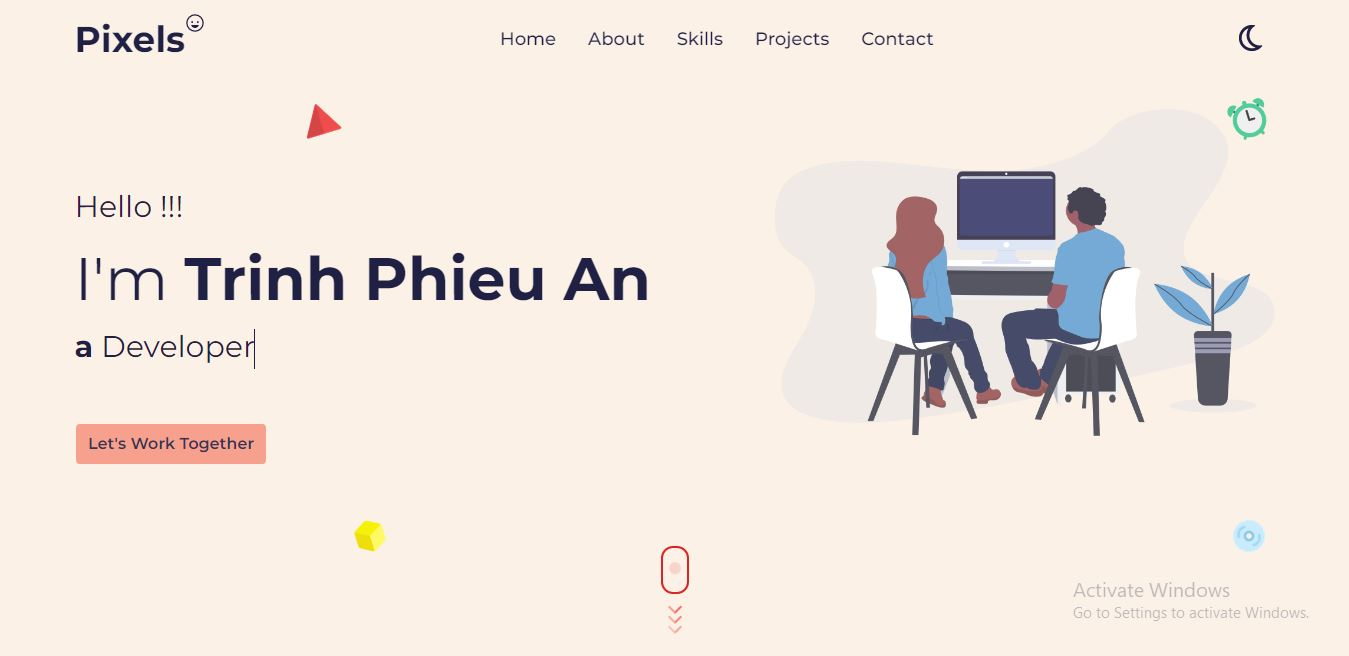
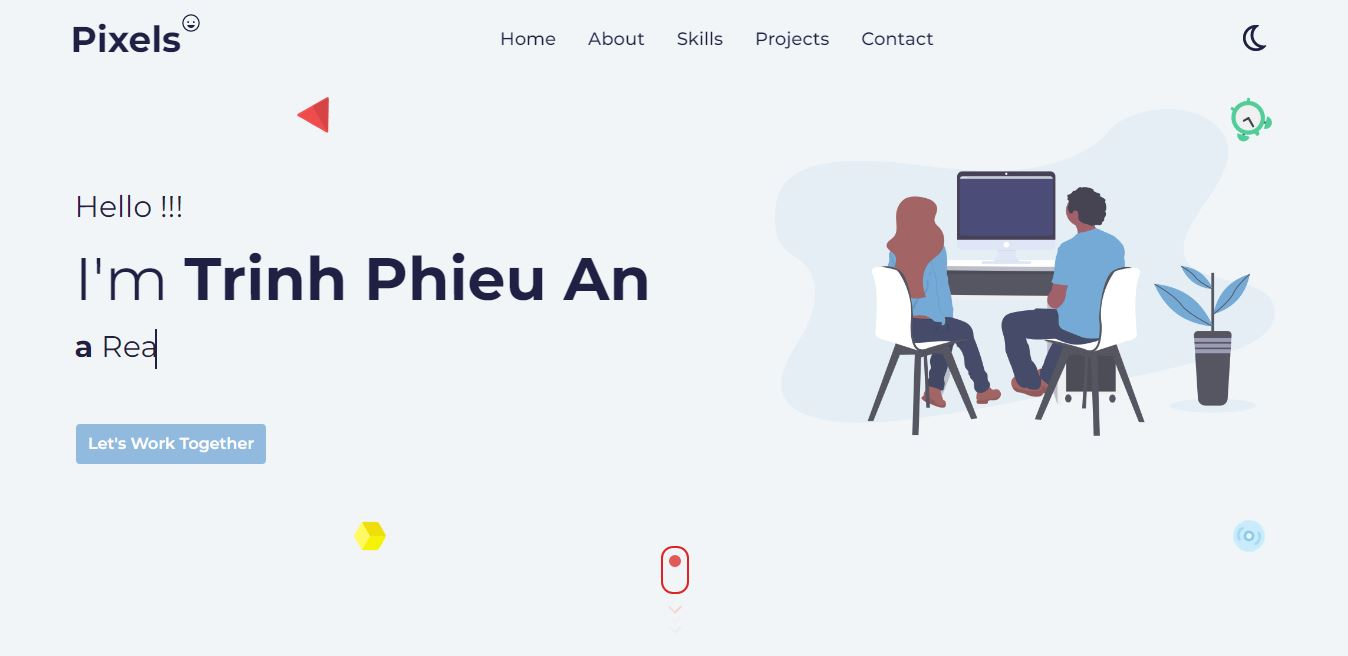
Fix UI Header, Skills, bg color

diff --git a/src/components/Skills.js b/src/components/Skills.js
@@ -2,7 +2,7 @@ import { htmlIcon, cssIcon, jsIcon, reactIcon, gitIcon, tailwindIcon } from '~/a
 
 function Skills() {
     return (
-        <div id="skills" className="px-[36px] py-[72px] xl:p-[72px] bg-[#fcf1e7]">
+        <div id="skills" className="px-[36px] py-[72px] xl:p-[72px] bg-[#f1f5f8]">
             <div className="font-bold text-3xl">
                 <h1 className="inline relative">
                     My Skills
@@ -10,47 +10,47 @@ function Skills() {
                 </h1>
             </div>
             <div className="flex flex-wrap justify-center gap-x-[30px] gap-y-[50px] xl:justify-between xl:gap-x-[80px] py-[24px] mt-[48px] select-none">
-                <div
-                    className="flex flex-col items-center justify-center border border-[#cccccc] 
-                            p-2 text-center rounded-lg hover:bg-[#fff] hover:shadow-custom w-[120px] h-[140px]"
-                >
-                    <img className="w-[90px]" src={htmlIcon} alt="" />
-                    <h1 className="font-semibold mt-2">HTML</h1>
+                <div class="relative w-[300px] h-[200px] shadow-custom rounded-lg border-b-[3px] border-[#ff5722] bg-[#fff]">
+                    <img className="absolute top-[-30px] left-[50%] translate-x-[-50%]" src={htmlIcon} alt="" />
+                    <div class="text-center pt-[60px]">
+                        <h1 className="text-xl font-semibold mb-3">HTML</h1>
+                        <p>HyperText Markup Language</p>
+                    </div>
                 </div>
-                <div
-                    className="flex flex-col items-center justify-center border border-[#cccccc] 
-                            p-2 text-center rounded-lg hover:bg-[#fff] hover:shadow-custom w-[120px] h-[140px]"
-                >
-                    <img className="w-[90px]" src={cssIcon} alt="" />
-                    <h1 className="font-semibold mt-2">CSS</h1>
+                <div class="relative w-[300px] h-[200px] shadow-custom rounded-lg border-b-[3px] border-[#1572b6] bg-[#fff]">
+                    <img className="absolute top-[-30px] left-[50%] translate-x-[-50%]" src={cssIcon} alt="" />
+                    <div class="text-center pt-[60px]">
+                        <h1 className="text-xl font-semibold mb-3">CSS</h1>
+                        <p>HyperText Markup Language</p>
+                    </div>
                 </div>
-                <div
-                    className="flex flex-col items-center justify-center border border-[#cccccc] 
-                            p-2 text-center rounded-lg hover:bg-[#fff] hover:shadow-custom w-[120px] h-[140px]"
-                >
-                    <img className="w-[90px]" src={jsIcon} alt="" />
-                    <h1 className="font-semibold mt-2">JavaScript</h1>
+                <div class="relative w-[300px] h-[200px] shadow-custom rounded-lg border-b-[3px] border-[#ffdf00] bg-[#fff]">
+                    <img className="absolute top-[-30px] left-[50%] translate-x-[-50%]" src={jsIcon} alt="" />
+                    <div class="text-center pt-[60px]">
+                        <h1 className="text-xl font-semibold mb-3">JavaScript</h1>
+                        <p>HyperText Markup Language</p>
+                    </div>
                 </div>
-                <div
-                    className="flex flex-col items-center justify-center border border-[#cccccc] 
-                            p-2 text-center rounded-lg hover:bg-[#fff] hover:shadow-custom w-[120px] h-[140px]"
-                >
-                    <img className="w-[90px]" src={reactIcon} alt="" />
-                    <h1 className="font-semibold mt-2">React</h1>
+                <div class="relative w-[300px] h-[200px] shadow-custom rounded-lg border-b-[3px] border-[#61d9fb] bg-[#fff]">
+                    <img className="absolute top-[-30px] left-[50%] translate-x-[-50%]" src={reactIcon} alt="" />
+                    <div class="text-center pt-[60px]">
+                        <h1 className="text-xl font-semibold mb-3">React</h1>
+                        <p>HyperText Markup Language</p>
+                    </div>
                 </div>
-                <div
-                    className="flex flex-col items-center justify-center border border-[#cccccc] 
-                            p-2 text-center rounded-lg hover:bg-[#fff] hover:shadow-custom w-[120px] h-[140px]"
-                >
-                    <img className="w-[90px]" src={tailwindIcon} alt="" />
-                    <h1 className="font-semibold mt-2">Tailwind</h1>
+                <div class="relative w-[300px] h-[200px] shadow-custom rounded-lg border-b-[3px] border-[#000000] bg-[#fff]">
+                    <img className="absolute top-[-30px] left-[50%] translate-x-[-50%]" src={tailwindIcon} alt="" />
+                    <div class="text-center pt-[60px]">
+                        <h1 className="text-xl font-semibold mb-3">Tailwind</h1>
+                        <p>HyperText Markup Language</p>
+                    </div>
                 </div>
-                <div
-                    className="flex flex-col items-center justify-center border border-[#cccccc] 
-                            p-2 text-center rounded-lg hover:bg-[#fff] hover:shadow-custom w-[120px] h-[140px]"
-                >
-                    <img className="w-[90px]" src={gitIcon} alt="" />
-                    <h1 className="font-semibold mt-2">Git</h1>
+                <div class="relative w-[300px] h-[200px] shadow-custom rounded-lg border-b-[3px] border-[#f34f29] bg-[#fff]">
+                    <img className="absolute top-[-30px] left-[50%] translate-x-[-50%]" src={gitIcon} alt="" />
+                    <div class="text-center pt-[60px]">
+                        <h1 className="text-xl font-semibold mb-3">Git</h1>
+                        <p>HyperText Markup Language</p>
+                    </div>
                 </div>
             </div>
         </div>

diff --git a/src/components/Home.js b/src/components/Home.js
@@ -7,7 +7,7 @@ function Home() {
     return (
         <div
             id="home"
-            className="bg-[#fcf1e7]
+            className="bg-[#f1f5f8]
                             bg-center bg-no-repeat bg-contain h-screen flex flex-col items-center relative"
         >
             <div className="flex flex-col justify-center xl:flex-row xl:justify-between items-center h-screen xl:w-[1200px] mx-auto">
@@ -22,7 +22,7 @@ function Home() {
                             <li className="relative top-[-6.5px] lg:top-[-1.5px] animate-slide">
                                 <span
                                     className="leading-[40px] py-1 relative after:content[''] after:border-l-2 after:border-solid
-                             after:border-[#1f2044] after:h-full after:w-full after:absolute after:left-0 after:animate-typing after:bg-[#fcf1e7]"
+                             after:border-[#1f2044] after:h-full after:w-full after:absolute after:left-0 after:animate-typing after:bg-[#f1f5f8]"
                                 >
                                     Developer
                                 </span>
@@ -30,7 +30,7 @@ function Home() {
                             <li className="mt-3 relative top-[-7.5px] md:top-[-8px] lg:top-0 animate-slide">
                                 <span
                                     className="leading-[40px] py-1 relative after:content[''] after:border-l-2 after:border-solid after:border-[#1f2044] 
-                                after:h-full after:w-full after:absolute after:left-0 after:animate-typing after:bg-[#fcf1e7]"
+                                after:h-full after:w-full after:absolute after:left-0 after:animate-typing after:bg-[#f1f5f8]"
                                 >
                                     React JS
                                 </span>
@@ -42,7 +42,7 @@ function Home() {
             </div>
             <div className="hidden xl:block absolute bottom-48 left-[76px]">
                 <button
-                    className="bg-[#f79784] rounded py-2 px-3 font-semibold opacity-90 hover:opacity-100"
+                    className="rounded py-2 px-3 font-semibold opacity-90 hover:opacity-100"
                     onClick={() => {
                         setModalOpen(true);
                     }}

diff --git a/src/components/Header.js b/src/components/Header.js
@@ -55,7 +55,7 @@ function Header() {
                 (scrolled ? 'bg-white shadow-xl animate-appear' : 'bg-transparent')
             }
         >
-            <div className="flex justify-between w-[290px] md:w-[690px] md:mx-6 lg:w-[1200px] max-w-[100%] text-[#1f2044]">
+            <div className="flex justify-between w-full px-[36px] xl:w-[1208px] xl:px-0 max-w-[100%] text-[#1f2044]">
                 <a href="#home" className="flex text-[36px] font-bold my-auto select-none">
                     Pixels
                     <span className="text-base lg:text-xl self-start">
@@ -81,7 +81,7 @@ function Header() {
                 <div className="text-[#ffffff] flex flex-row-reverse relative">
                     <div
                         tabIndex="1"
-                        className=" self-center text-[24px] leading-5 p-2 md:text-[30px] rounded-lg bg-[#f79784]  focus:ring-2 focus:ring-white lg:hidden"
+                        className=" self-center text-[24px] leading-5 p-2 md:text-[30px] rounded-lg bg-[#88b4dc]  focus:ring-2 focus:ring-white lg:hidden"
                         onClick={handleMenu}
                     >
                         {toggle ? (
@@ -107,7 +107,7 @@ function Header() {
                         ))}
                         <div className="block lg:hidden">
                             <button
-                                className="bg-[#f79784] rounded py-2 px-7 md:px-56 font-semibold opacity-90 hover:opacity-100"
+                                className="rounded py-2 px-7 md:px-56 font-semibold opacity-90 hover:opacity-100"
                                 onClick={() => {
                                     setModalOpen(true);
                                 }}
@@ -121,7 +121,7 @@ function Header() {
                     </div>
                     <div className="hidden lg:block xl:hidden self-center">
                         <button
-                            className="bg-[#f79784] rounded py-2 px-3 font-semibold opacity-90 hover:opacity-100"
+                            className="rounded py-2 px-3 font-semibold opacity-90 hover:opacity-100"
                             onClick={() => {
                                 setModalOpen(true);
                             }}

diff --git a/src/components/ContactModal.js b/src/components/ContactModal.js
@@ -60,15 +60,13 @@ function ContactModal({ setOpenModal }) {
                             required
                         ></textarea>
                         <button
-                            type="button"
-                            className="bg-[#f79784] text-[#1f2044] rounded py-2 px-5 font-semibold opacity-90
+                            className="rounded py-2 px-5 font-semibold opacity-90
                                 hover:opacity-100 mt-2 cursor-pointer"
                         >
                             Send
                         </button>
                         <button
-                            type="button"
-                            className="bg-[#ffffff] text-[#1f2044] rounded py-2 px-5 font-semibold opacity-90
+                            className="bg-[#ffffff] text-[#88b4dc] rounded py-2 px-5 font-semibold opacity-90
                                 hover:opacity-100 hover:underline mt-2 ml-2 cursor-pointer"
                             onClick={() => {
                                 setOpenModal(false);

diff --git a/src/components/Contact.js b/src/components/Contact.js
@@ -2,7 +2,7 @@ import { faEnvelope, faHouseUser, faLocationDot, faMobile } from '@fortawesome/f
 import { FontAwesomeIcon } from '@fortawesome/react-fontawesome';
 function Contact() {
     return (
-        <div id="contact" className="px-[36px] py-[72px] xl:p-[72px] bg-[#fcf1e7]">
+        <div id="contact" className="px-[36px] py-[72px] xl:p-[72px] bg-[#f1f5f8]">
             <div className="font-bold text-3xl">
                 <h1 className="inline relative">
                     Contact
@@ -99,7 +99,7 @@ function Contact() {
                             placeholder="Message"
                             required
                         ></textarea>
-                        <button className="bg-[#f79784] text-[#1f2044] rounded py-2 px-5 font-semibold opacity-90 hover:opacity-100 mt-2 cursor-pointer">
+                        <button className="rounded py-2 px-5 font-semibold opacity-90 hover:opacity-100 mt-2 cursor-pointer">
                             Send
                         </button>
                     </form>

diff --git a/tailwind.config.js b/tailwind.config.js
@@ -87,7 +87,7 @@ module.exports = {
                 modalFadeIn: 'modalFadeIn 0.5s ease',
             },
             boxShadow: {
-                custom: '0 0 15px 7px rgba(0, 0, 0, 0.2)',
+                custom: '0 10px 15px 6px rgba(0, 0, 0, 0.2)',
             },
         },
     },

diff --git a/src/index.css b/src/index.css
@@ -13,8 +13,10 @@
     h1,
     p,
     li,
-    span,
-    button {
+    span {
         @apply text-[#1f2044];
+    }
+    button {
+        @apply text-white bg-[#88b4dc];
     }
 }
